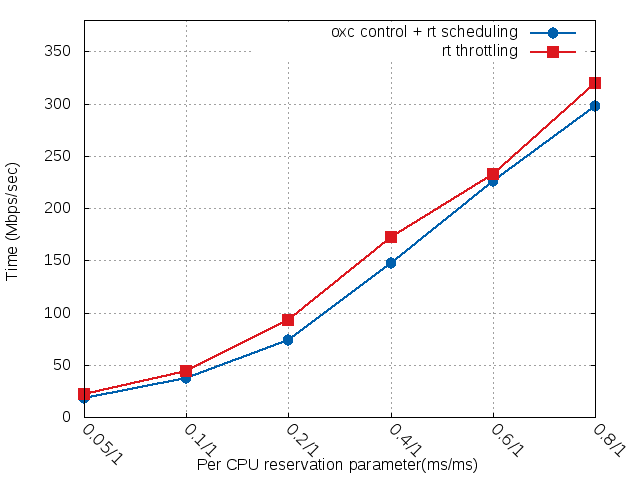
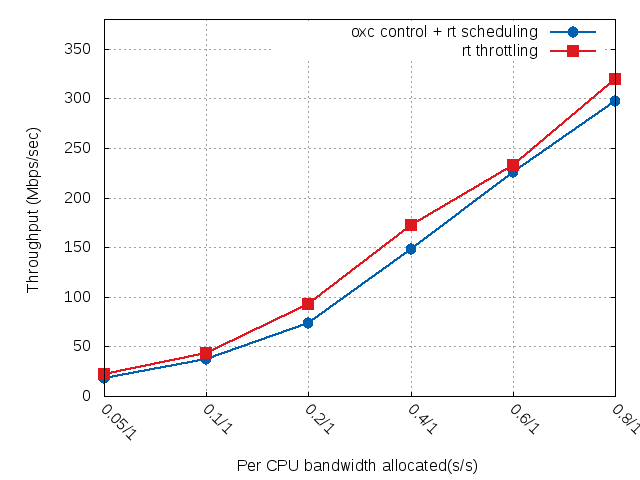
expB graphs changed

diff --git a/exp.tex b/exp.tex
@@ -335,8 +335,8 @@ Each connection will be dedicated to one CPU.
 Without constraints, they will consume all CPU time.
 In the experiment, the CPU bandwidth allocated to tbench traffic is restricted.
 The per CPU bandwidth parameter used in tests includes
-$0.05ms/1ms$, $0.1ms/1ms$, $0.2ms/1ms$, $0.4ms/1ms$, $0.6ms/1ms$ and 
-$0.8ms/1ms$. 
+$0.05s/1s$, $0.1s/1s$, $0.2s/1s$, $0.4s/1s$, $0.6s/1s$ and 
+$0.8s/1s$. 
 Note that these are the per CPU bandwidth that is planned to assign to 
 tbench tasks. Each CPU bandwidth control mechnism will restrict the 
 tbench execution not exceed the configured value. And the throughput 
@@ -360,12 +360,12 @@ The thrughput results are shown in table~\ref{tab:expB1} and~\ref{tab:expB2}.
 	\centering
 	\begin{tabular}{|l||c|c|}\hline
 		 per CPU bandwidth & RT throttling & oxc control + RT scheduling\\\hline
-			0.05/1ms &	21.9335	&	18.5313	\\\hline 
-			0.1ms/1ms &	43.5794 &	36.89324 \\\hline
-			0.2ms/1ms &	92.7356 &	73.5099	\\\hline
-			0.4ms/1ms &	172.582 &	147.806 \\\hline
-			0.6ms/1ms &	233	&	225.72	\\\hline
-			0.8ms/1ms &	319.297 &	297.0607	\\\hline
+			0.05s/1s &	21.9335	&	18.5313	\\\hline 
+			0.1s/1s &	43.5794 &	36.89324 \\\hline
+			0.2s/1s &	92.7356 &	73.5099	\\\hline
+			0.4s/1s &	172.582 &	147.806 \\\hline
+			0.6s/1s &	233	&	225.72	\\\hline
+			0.8s/1s &	319.297 &	297.0607	\\\hline
 	\end{tabular}
 	\caption{Throughputs, in Mbps/sec, under RT throttling and oxc control}
 	\label{tab:expB1}
@@ -374,12 +374,12 @@ The thrughput results are shown in table~\ref{tab:expB1} and~\ref{tab:expB2}.
 	\centering
 	\begin{tabular}{|l||c|c|}\hline
 		 per CPU bandwidth & CFS bandwidth control & oxc control + CFS scheduling  \\\hline
-		 0.05ms/1ms	& 24.8825	& 19.2151 \\\hline
-		 0.1ms/1ms	& 52.2106	& 39.4268 \\\hline
-		 0.2ms/1ms	& 106.226	& 77.4225 \\\hline
-		 0.4ms/1ms	& 215.071	& 151.465 \\\hline
-		 0.6ms/1ms	& 323.628	& 234.369 \\\hline
-		 0.8ms/1ms	& 433.025	& 305.1 \\\hline
+		 0.05s/1s	& 24.8825	& 19.2151 \\\hline
+		 0.1s/1s	& 52.2106	& 39.4268 \\\hline
+		 0.2s/1s	& 106.226	& 77.4225 \\\hline
+		 0.4s/1s	& 215.071	& 151.465 \\\hline
+		 0.6s/1s	& 323.628	& 234.369 \\\hline
+		 0.8s/1s	& 433.025	& 305.1 \\\hline
 	\end{tabular}
 	\caption{Throughputs, in Mbps/sec, under CFS bandwidth and oxc control}
 	\label{tab:expB2}

diff --git a/impl.tex b/impl.tex
@@ -264,7 +264,7 @@ void set_task_rq(struct task_struct *p, unsigned int cpu)
         else
                 p->rt.rt_rq = &tg->hyper_oxc_rq->oxc_rq[cpu]->rq_.rt;
 #endif
-        if (task_rq_oxc(p)->in_oxc == 1)
+        if (rq_of_task(p)->in_oxc == 1)
                 p->is_oxc_task = 100;
         else
                 p->is_oxc_task = 0;
@@ -617,7 +617,7 @@ oxc runqueue in an edf tree.
 static void 
 dequeue_task_oxc(struct rq *rq, struct task_struct*p, int flags)
 {
-        struct rq *rq_ = task_rq_oxc(p);
+        struct rq *rq_ = rq_of_task(p);
         struct oxc_rq *oxc_rq = container_of(rq_, struct oxc_rq, rq_);
 
         /* Update the local runqueue. */
@@ -974,7 +974,7 @@ local runqueue when the CPU is occupied by an oxc task.
 static void 
 task_tick_oxc(struct rq *rq, struct task_struct *p, int queued)
 {
-        struct rq *rq_ = task_rq_oxc(p);
+        struct rq *rq_ = rq_of_task(p);
 
         update_curr_oxc_rq(rq);
         update_rq_clock(rq_);

diff --git a/acknowledgements.tex b/acknowledgements.tex
@@ -9,7 +9,7 @@ and creative thinking is highly motivated. There are too
 many stupid, unrelated and weird opinions that I have 
 told you. However, I could always get positive and 
 beneficial feedbacks. 
-Thanks to my program supervisor Luigi Palopoli in Trento.
+Thanks to my supervisor Luigi Palopoli in Trento.
 At the early days after I came to Italy, I was confused. 
 You helped me be confident. 
 I enjoyed the last two years' time. I met these professors, 

diff --git a/frontpage.tex b/frontpage.tex
@@ -27,7 +27,7 @@ Prof. Giuseppe Lipari                & \hfill & Sun Youcheng\\
 \emph{\scriptsize Scuola Superiore Sant'Anna } & \hfill & \\
 & & \\
 %& & \\
-Prof. Luca Abeni   & \hfill & \\
+Prof.  Luigi Palopoli & \hfill & \\
 \emph{\scriptsize University of Trento }        & \hfill & \\
 & & \\
 & & \\
